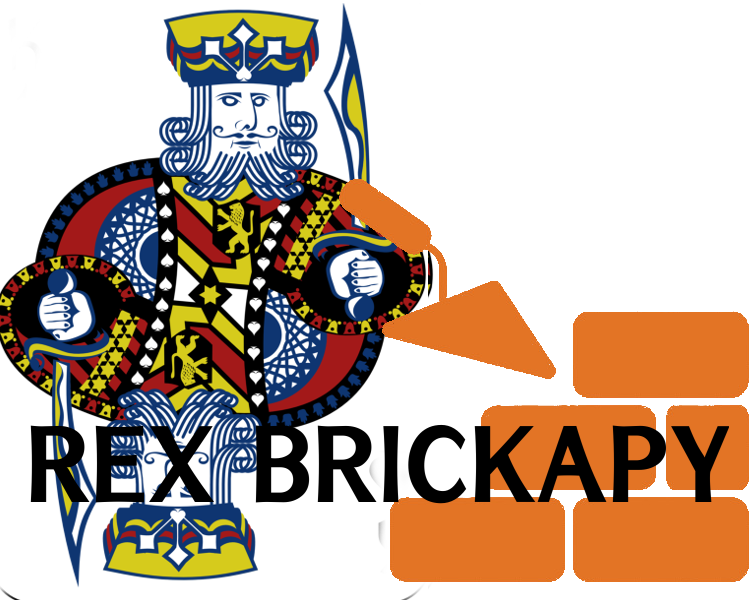
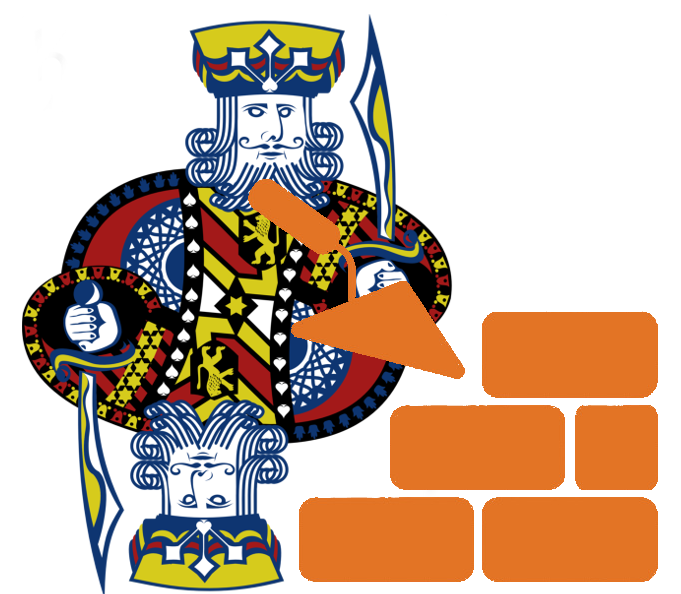
readme

diff --git a/README.md b/README.md
@@ -1,4 +1,5 @@
 # RexBrickapy
 Open source board game based on King Domino written for Python 3.7+
 
-![rexbrickapy_logo](https://github.com/hadlock/rexbrickapy/blob/master/static/rexbrickapy.png)
+![rexbrickapy_font](https://github.com/hadlock/rexbrickapy/blob/master/static/rexbrickapyfont.png)
+![rexbrickapy_logo](https://github.com/hadlock/rexbrickapy/blob/master/static/rexbrickapy-sm.png)
